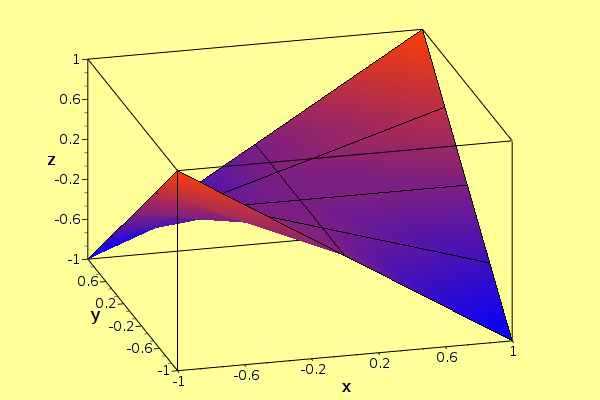
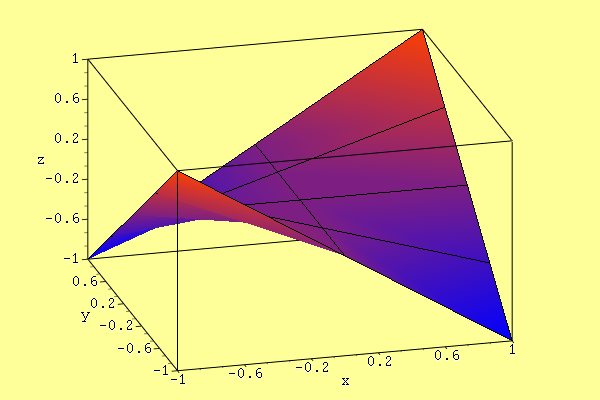
Display the text with the Courier font instead of the nicer Verdana font.

diff --git a/examples3d/ParametricSurfaceDemo.py.html b/examples3d/ParametricSurfaceDemo.py.html
@@ -9,7 +9,7 @@
 
 <b>import</b> sys
 <b>from</b> math <b>import</b> cos, pi, sin
-<b>from</b> PyQt4.Qt <b>import</b> QApplication, QCoreApplication, QFont, QFontDatabase
+<b>from</b> PyQt4.Qt <b>import</b> QApplication, QCoreApplication, QFont, QFontDatabase, Qt
 <b>from</b> PyQt4.Qwt3D <b>import</b> ParametricSurface, RGBA, SurfacePlot, Triple, NOCOORD
 
 <b>class</b><font color=red> Sphere</font>(ParametricSurface):
@@ -40,8 +40,9 @@
         <b>if</b> <font color=green>'Verdana'</font> <b>in</b> QFontDatabase().families():
             family = <font color=green>'Verdana'</font>
 
-        family = <font color=green>'Courrier'</font>
+        family = <font color=green>'Courier'</font>
         self.setTitleFont(family, 16, QFont.Bold)
+<font color=blue>##         self.setTitleColor(RGBA(1.0, 0.0, 0.0))</font>
         
         self.setTitle(<font color=green>"A Simple Parametric Surface Demonstration"</font>)
 

diff --git a/examples3d/EnrichmentDemo.py.html b/examples3d/EnrichmentDemo.py.html
@@ -210,7 +210,7 @@
         plot.setTitle(<font color=green>'Bar Style (Vertex Enrichment)'</font>)
         <b>if</b> <font color=green>'Verdana'</font> <b>in</b> Qt.QFontDatabase().families():
             family = <font color=green>'Verdana'</font>
-        family = <font color=green>'Courrier'</font>
+        family = <font color=green>'Courier'</font>
             
         plot.setTitleFont(family, 16, Qt.QFont.Bold)
         plot.coordinates().setLabelFont(family, 14)
@@ -238,7 +238,7 @@
              
         plot.coordinates().setGridLinesColor(RGBA(0.0, 0.0, 0.5))
         plot.coordinates().setLineWidth(1)
-        plot.coordinates().setNumberFont(<font color=green>"Courier"</font>, 8)
+        plot.coordinates().setNumberFont(family, 8)
         plot.coordinates().adjustNumbers(5)
 
         self.setColor()

diff --git a/examples3d/SimplePlot.py.html b/examples3d/SimplePlot.py.html
@@ -35,7 +35,7 @@
         family = QCoreApplication.instance().font().family()
         <b>if</b> <font color=green>'Verdana'</font> <b>in</b> QFontDatabase().families():
             family = <font color=green>'Verdana'</font>
-        family = <font color=green>'Courrier'</font>
+        family = <font color=green>'Courier'</font>
             
         self.coordinates().setLabelFont(family, 14)
         self.coordinates().setNumberFont(family, 12)

diff --git a/examples3d/TestNumPy.py.html b/examples3d/TestNumPy.py.html
@@ -68,7 +68,7 @@
         family = QCoreApplication.instance().font().family()
         <b>if</b> <font color=green>'Verdana'</font> <b>in</b> QFontDatabase().families():
             family = <font color=green>'Verdana'</font>
-        family = <font color=green>'Courrier'</font>
+        family = <font color=green>'Courier'</font>
             
         self.coordinates().setLabelFont(family, 14)
         self.coordinates().setNumberFont(family, 12)
